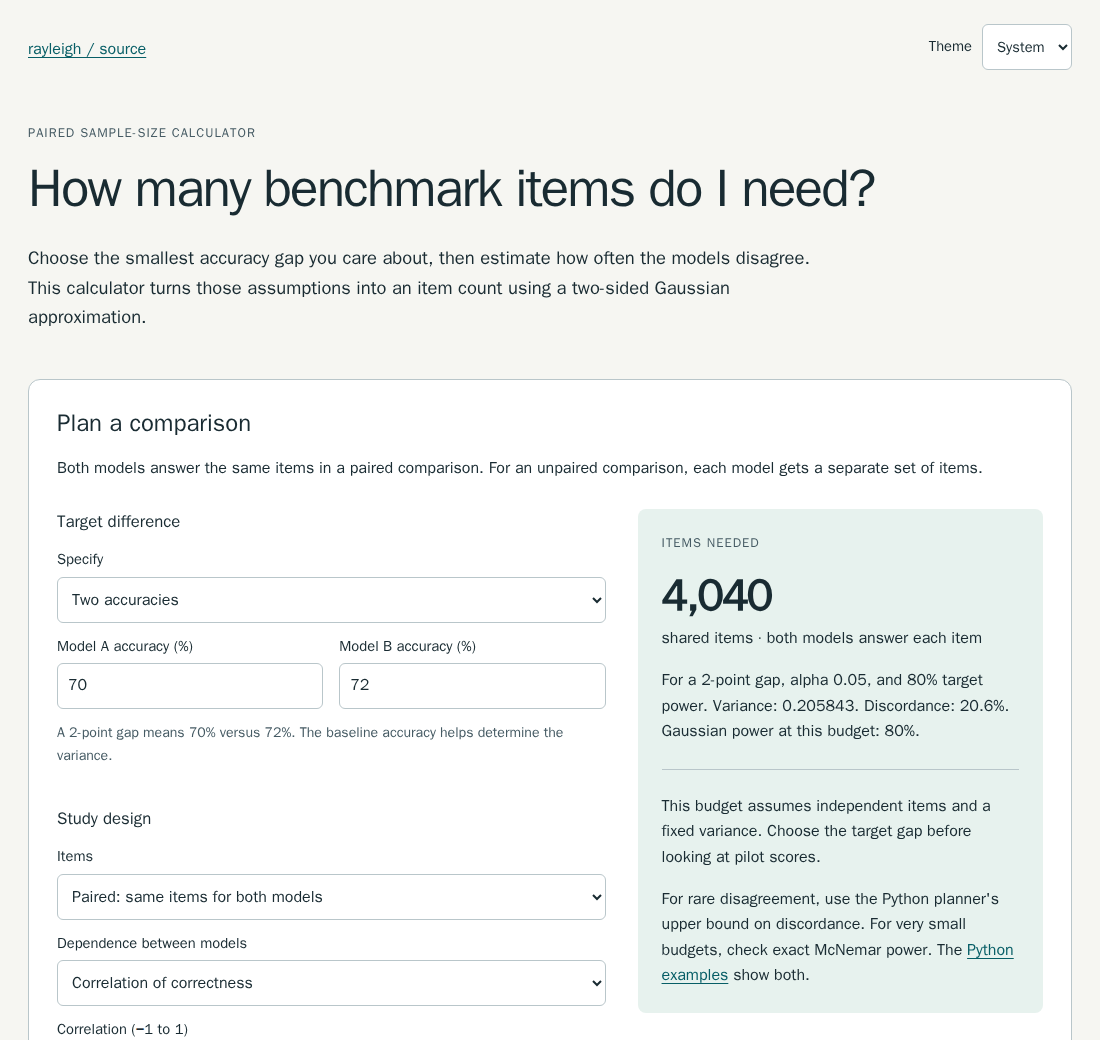
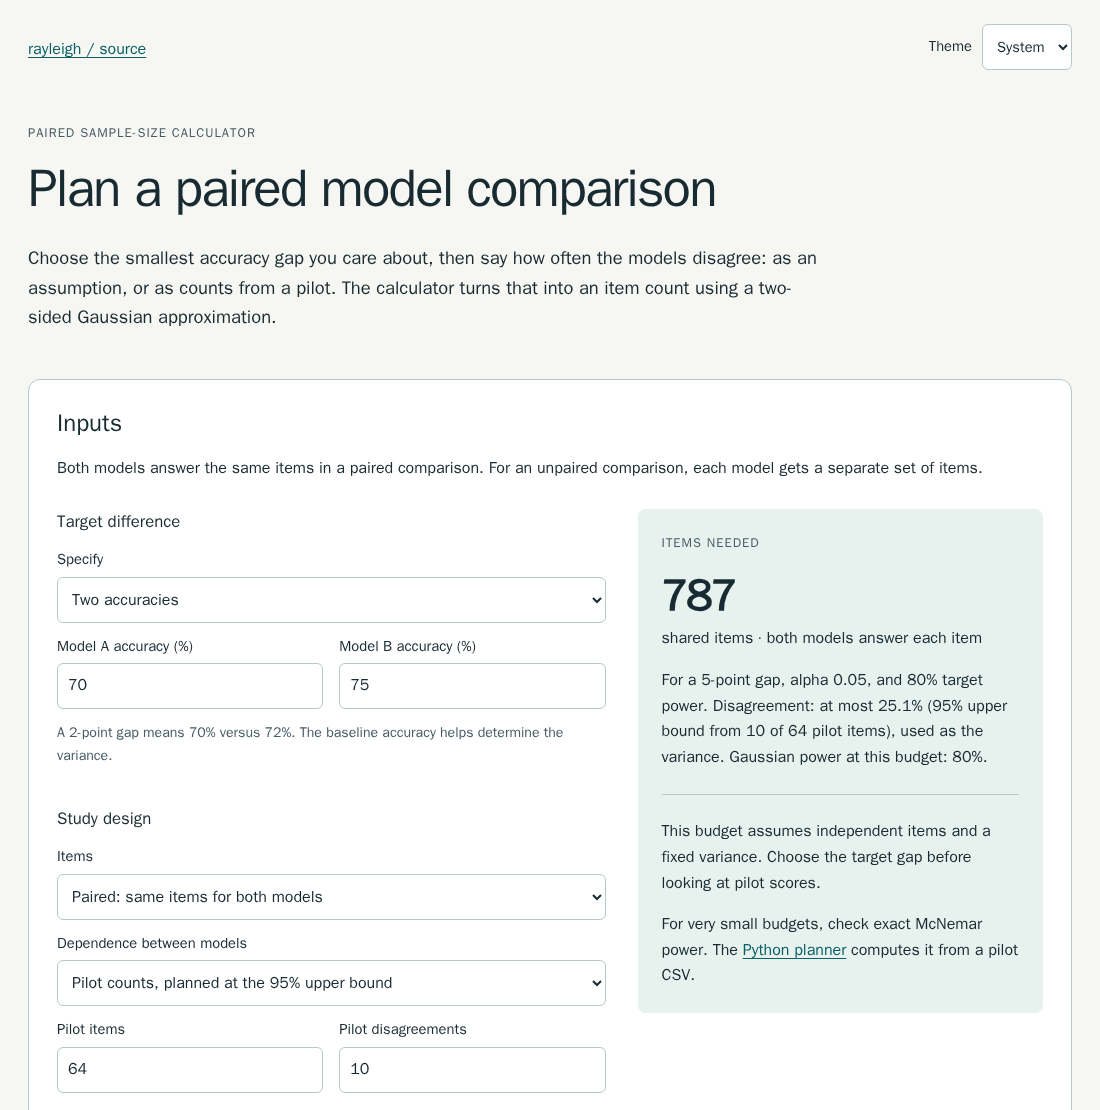
calculator: plan from pilot counts with the 95% bound

diff --git a/site/index.html b/site/index.html
@@ -15,12 +15,12 @@
 <header>
   <nav aria-label="Project"><a href="https://github.com/mottopanikeiku/rayleigh">rayleigh / source</a><label class="theme">Theme <select id="theme"><option value="system">System</option><option value="light">Light</option><option value="dark">Dark</option></select></label></nav>
   <p class="eyebrow">Paired sample-size calculator</p>
-  <h1>How many benchmark items do I need?</h1>
-  <p class="intro">Choose the smallest accuracy gap you care about, then estimate how often the models disagree. This calculator turns those assumptions into an item count using a two-sided Gaussian approximation.</p>
+  <h1>Plan a paired model comparison</h1>
+  <p class="intro">Choose the smallest accuracy gap you care about, then say how often the models disagree: as an assumption, or as counts from a pilot. The calculator turns that into an item count using a two-sided Gaussian approximation.</p>
 </header>
 <main>
   <section id="calculator" aria-labelledby="plan-title" tabindex="-1">
-    <h2 id="plan-title">Plan a comparison</h2>
+    <h2 id="plan-title">Inputs</h2>
     <p>Both models answer the same items in a paired comparison. For an unpaired comparison, each model gets a separate set of items.</p>
     <div class="planner">
       <form id="plan-form">
@@ -39,10 +39,11 @@
           <legend>Study design</legend>
           <label for="design">Items</label><select id="design"><option value="paired">Paired: same items for both models</option><option value="unpaired">Unpaired: independent items, equal counts</option></select>
           <div id="paired-fields">
-            <label for="dependence">Dependence between models</label><select id="dependence"><option value="correlation">Correlation of correctness</option><option value="discordance">Fraction of items where models disagree</option></select>
+            <label for="dependence">Dependence between models</label><select id="dependence"><option value="correlation">Correlation of correctness</option><option value="discordance">Fraction of items where models disagree</option><option value="pilot">Pilot counts, planned at the 95% upper bound</option></select>
             <div id="correlation-field"><label for="correlation">Correlation (−1 to 1)</label><input id="correlation" type="number" min="-1" max="1" step="any" value="0.5" required></div>
             <div id="discordance-field" hidden><label for="discordance">Discordant items (%)</label><input id="discordance" type="number" min="0" max="100" step="any" value="20.601191" disabled required></div>
-            <p class="hint">Discordance counts items on which exactly one model is correct. Not every correlation is possible for two binary accuracies.</p>
+            <div id="pilot-field" class="fields" hidden><div><label for="pilot-items">Pilot items</label><input id="pilot-items" type="number" min="1" step="1" value="64" disabled required></div><div><label for="pilot-disagreements">Pilot disagreements</label><input id="pilot-disagreements" type="number" min="0" step="1" value="10" disabled required></div></div>
+            <p class="hint">Discordance counts items on which exactly one model is correct. Not every correlation is possible for two binary accuracies. With pilot counts, the plan uses a one-sided 95% upper bound on discordance, as the study recommends when models disagree on 5% of items or fewer.</p>
           </div>
         </fieldset>
         <fieldset>
@@ -60,7 +61,7 @@
         <p id="plan-error" class="error" hidden></p>
         <hr>
         <p>This budget assumes independent items and a fixed variance. Choose the target gap before looking at pilot scores.</p>
-        <p>For rare disagreement, use the Python planner's upper bound on discordance. For very small budgets, check exact McNemar power. The <a href="https://github.com/mottopanikeiku/rayleigh#plan-from-your-own-scores">Python examples</a> show both.</p>
+        <p>For very small budgets, check exact McNemar power. The <a href="https://github.com/mottopanikeiku/rayleigh#from-a-pilot">Python planner</a> computes it from a pilot CSV.</p>
       </div>
     </div>
   </section>
@@ -75,11 +76,11 @@
   </section>
   <section aria-labelledby="method-title" class="method">
     <h2 id="method-title">Calculation</h2>
-    <p>For a gap δ, the unpaired variance is p<sub>A</sub>(1 − p<sub>A</sub>) + p<sub>B</sub>(1 − p<sub>B</sub>). For paired items it is q − δ², where q is discordance. Equivalently, subtract twice the covariance from the unpaired variance. I find the smallest integer n with Φ(−z − |δ|√(n/v)) + Φ(|δ|√(n/v) − z) at least the target power, where z is the two-sided normal critical value.</p>
-    <p>The browser and Python planners agree within one item on the <a href="https://github.com/mottopanikeiku/rayleigh/tree/main/site">test grid</a>. Variance comes from the accuracies and dependence you enter. The Gaussian budget can fall short for small samples or rare disagreement, and clustered questions or several comparisons need their own adjustment.</p>
+    <p>For a gap δ, the unpaired variance is p<sub>A</sub>(1 − p<sub>A</sub>) + p<sub>B</sub>(1 − p<sub>B</sub>). For paired items it is q − δ², where q is discordance. Equivalently, subtract twice the covariance from the unpaired variance. From pilot counts, the variance v is the one-sided 95% Clopper–Pearson upper bound on q, which also bounds q − δ². I find the smallest integer n with Φ(−z − |δ|√(n/v)) + Φ(|δ|√(n/v) − z) at least the target power, where z is the two-sided normal critical value.</p>
+    <p>The browser and Python planners agree within one item on the <a href="https://github.com/mottopanikeiku/rayleigh/tree/main/site">test grid</a>, and the browser's discordance bounds match SciPy's within 10<sup>−12</sup>. With an assumed disagreement rate, the Gaussian budget can fall short when disagreement is rare; any Gaussian budget can fall short for very small samples. Clustered questions or several comparisons need their own adjustment.</p>
   </section>
 </main>
 <footer>Alp Cetin · <a href="https://github.com/mottopanikeiku/rayleigh">Source and methods</a></footer>
-<noscript><p class="error">This calculator needs JavaScript. You can also use the <a href="https://github.com/mottopanikeiku/rayleigh#plan-from-your-own-scores">Python planner</a>.</p></noscript>
+<noscript><p class="error">This calculator needs JavaScript. You can also use the <a href="https://github.com/mottopanikeiku/rayleigh#from-a-pilot">Python planner</a>.</p></noscript>
 </body>
 </html>

diff --git a/site/export_fixture.py b/site/export_fixture.py
@@ -9,11 +9,14 @@ import numpy as np
 
 from eval_power.stats import (
     correlation,
+    discordance_upper_bound,
     gaussian_power,
     paired_variance,
     required_items,
     unpaired_variance,
 )
+
+GROUPS = ("cases", "comparisons", "bounds")
 
 
 def fixture():
@@ -72,13 +75,40 @@ def fixture():
                 "unpaired_variance": unpaired_variance(a, b),
             }
         )
+    bounds = []
+    # Pilot (disagreements, items) and a target gap; (10, 64) is the README's GSM8K pilot.
+    for discordant, n, delta in [
+        (0, 1, 0.2),
+        (0, 32, 0.02),
+        (1, 32, 0.02),
+        (10, 64, 0.05),
+        (2, 128, 0.01),
+        (6, 128, 0.02),
+        (25, 128, 0.05),
+        (128, 128, 0.05),
+        (5, 1000, 0.005),
+        (500, 1000, 0.05),
+        (50, 10000, 0.002),
+    ]:
+        bound = discordance_upper_bound(discordant, n)
+        bounds.append(
+            {
+                "discordant": discordant,
+                "n": n,
+                "delta": delta,
+                "bound": bound,
+                "items": required_items(delta, bound),
+            }
+        )
     return {
         "source": "src/eval_power/stats.py",
         "item_tolerance": 1,
         "power_absolute_tolerance": 1e-12,
         "variance_absolute_tolerance": 1e-12,
+        "bound_absolute_tolerance": 1e-12,
         "cases": cases,
         "comparisons": comparisons,
+        "bounds": bounds,
     }
 
 
@@ -86,10 +116,10 @@ def check_fixture(reference, committed):
     """Check numerical agreement, allowing the documented cross-platform rounding."""
     if reference.keys() != committed.keys():
         raise SystemExit("Fixture fields changed; regenerate the fixture")
-    for key in reference.keys() - {"cases", "comparisons"}:
+    for key in reference.keys() - set(GROUPS):
         if reference[key] != committed[key]:
             raise SystemExit(f"Fixture metadata changed: {key}")
-    for group in ("cases", "comparisons"):
+    for group in GROUPS:
         if len(reference[group]) != len(committed[group]):
             raise SystemExit(f"Fixture grid changed: {group}")
         for index, (actual, expected) in enumerate(
@@ -106,6 +136,8 @@ def check_fixture(reference, committed):
                     tolerance = reference["power_absolute_tolerance"]
                 elif key in ("rho", "paired_variance", "unpaired_variance"):
                     tolerance = reference["variance_absolute_tolerance"]
+                elif key == "bound":
+                    tolerance = reference["bound_absolute_tolerance"]
                 if value is None or old is None:
                     matches = value is old
                 else:

diff --git a/site/test_fixture.py b/site/test_fixture.py
@@ -10,8 +10,10 @@ REFERENCE = {
     "item_tolerance": 1,
     "power_absolute_tolerance": 1e-12,
     "variance_absolute_tolerance": 1e-12,
+    "bound_absolute_tolerance": 1e-12,
     "cases": [{"delta": 0.01, "items": 1000, "power_at_items": 0.8}],
     "comparisons": [{"pa": 0.7, "rho": 0.5, "paired_variance": 0.2}],
+    "bounds": [{"discordant": 10, "n": 64, "bound": 0.25, "items": 787}],
 }
 
 
@@ -19,6 +21,7 @@ def test_cross_platform_rounding():
     rounded = deepcopy(REFERENCE)
     rounded["cases"][0]["power_at_items"] += 1e-13
     rounded["comparisons"][0]["paired_variance"] += 1e-13
+    rounded["bounds"][0]["bound"] += 1e-13
     rounded["cases"][0]["items"] += 1
     check_fixture(REFERENCE, rounded)
 
@@ -31,6 +34,8 @@ def test_cross_platform_rounding():
         ("cases", "power_at_items", 2e-12),
         ("comparisons", "paired_variance", 2e-12),
         ("comparisons", "rho", 2e-12),
+        ("bounds", "bound", 2e-12),
+        ("bounds", "discordant", 1),
     ],
 )
 def test_changed_values_are_rejected(group, key, difference):

diff --git a/README.md b/README.md
@@ -2,7 +2,7 @@
 
 A sample-size calculator for comparing two LLMs on the same benchmark questions. There's a [browser version](https://mottopanikeiku.github.io/rayleigh/) for quick what-ifs and a Python planner that reads your pilot scores.
 
-[<img src="docs/calculator.png" alt="The rayleigh calculator showing a 2-point gap needs 4,040 shared items" width="420">](https://mottopanikeiku.github.io/rayleigh/)
+[<img src="docs/calculator.png" alt="The rayleigh calculator planning a 5-point gap from a 64-question pilot with 10 disagreements: 787 shared items" width="420">](https://mottopanikeiku.github.io/rayleigh/)
 
 You give it the smallest accuracy gap you care about and how often the two models disagree (one right, the other wrong). Disagreement drives the variance of a paired comparison, so two models that tend to miss the same questions need fewer of them to tell apart.
 
@@ -33,7 +33,7 @@ discordant = int((scores[:, 0] != scores[:, 1]).sum())
 n = required_items(0.05, discordance_upper_bound(discordant, len(item_ids)))  # 787
 ```
 
-[`examples/plan_from_pilot.py`](examples/plan_from_pilot.py) also checks exact power at the pilot's disagreement rate: 78% for 496 questions, 94% for 787. The browser calculator only does the Gaussian plan with a variance you supply.
+[`examples/plan_from_pilot.py`](examples/plan_from_pilot.py) also checks exact power at the pilot's disagreement rate: 78% for 496 questions, 94% for 787. The [browser calculator](https://mottopanikeiku.github.io/rayleigh/) does the bound plan too: choose pilot counts, enter 64 items with 10 disagreements, and a 5-point gap needs the same 787.
 
 ## Choosing a planning rule
 
